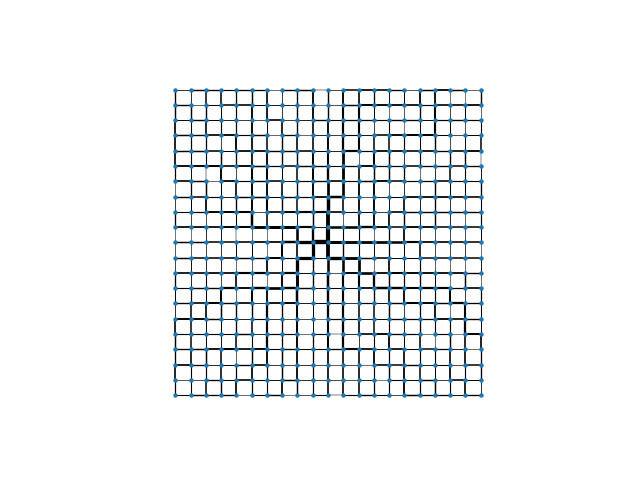
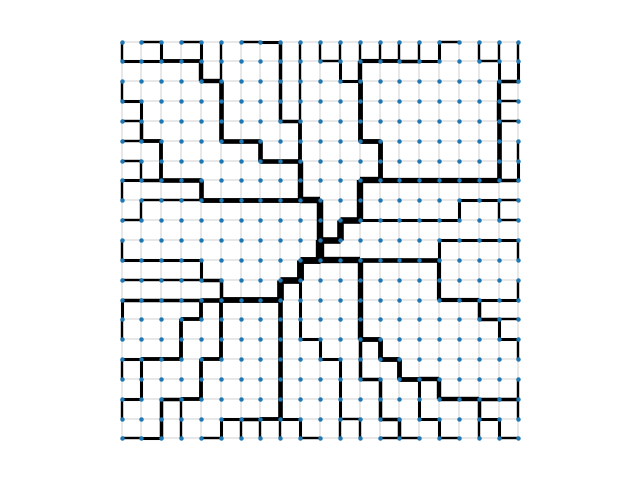
more images

diff --git a/Angiogenesis.py b/Angiogenesis.py
@@ -43,6 +43,32 @@ def generate_grid_graph(dim_A, dim_B, periodic=False, hexagonal=False, triangula
         graph = nx.triangular_lattice_graph(dim_A, dim_B, periodic=periodic)
     else:
         graph = nx.grid_graph(dim=(dim_A, dim_B))
+
+    # deleting the boundary ring of edges
+    """
+    last_index = dim_A - 1
+    iterator = 0
+    graph.remove_edge((0, 0), (1, 0))
+    for node in graph.nodes:  # accessing nodes on the boundaries of the network
+        if node[0] == 0 and node[1] != last_index:
+            graph.remove_edge((node), (0, node[1]+1))
+
+        elif node[0] == last_index and node[1] != last_index:
+            graph.remove_edge((node), (last_index, node[1]+1))
+
+        elif node[1] == 0 and node[0] != last_index:
+            graph.remove_edge((node), (node[0]+1, 0))
+
+        elif node[1] == last_index and node[0] != last_index:
+            graph.remove_edge((node), (node[0]+1, last_index))
+        iterator += 1
+
+    for node in dict(graph.nodes).copy():
+        neighbors = set(nx.neighbors(graph, node))
+        if len(neighbors) == 0:
+            graph.remove_node(node)
+    """
+
     inc_mtx = nx.incidence_matrix(graph)
     inc_mtx_dense = scipy.sparse.csr_matrix.todense(inc_mtx)
     inc_mtx_dense_int = inc_mtx_dense.astype(int)
@@ -83,9 +109,10 @@ def generate_physical_values(graph, source_value, incidence_matrix, corridor_mod
     #print(np.allclose(incidence_T_inv @ incidence_T @ incidence_T_inv, incidence_T_inv))
     #print(np.allclose(incidence_T @ incidence_T_inv @ incidence_T, incidence_T))
 
-    eps = 0.9
-    conductivity_list = np.ones(edges_dim) + np.random.default_rng().uniform(-eps, eps, edges_dim)  # ones + stochastic noise
-    length_list = np.ones(edges_dim) # + np.random.default_rng().uniform(-eps, eps, edges_dim)        # vector from edges space
+    eps = 0.8
+    radii_list = np.ones(edges_dim) + np.random.default_rng().uniform(-eps, eps, edges_dim)  # ones + stochastic noise
+    conductivity_list = 0.2*np.float_power(radii_list, 4)
+    length_list = 0.8*np.ones(edges_dim) # + np.random.default_rng().uniform(-eps, eps, edges_dim)        # vector from edges space
 
 
     # source in one node on the left and sink in one node on the right -- resulting in a corridor between them
@@ -132,6 +159,7 @@ def generate_physical_values(graph, source_value, incidence_matrix, corridor_mod
         source_list = np.zeros(dimension)                            # vector from nodes space
         source_list[int((dimension-1)/2)] = source_value             # source in the center
         number_of_boundary_nodes = 4*np.sqrt(dimension)-4
+        #number_of_boundary_nodes = 4*np.sqrt(dimension)-4-4          # without edges on outermost ring
         last_index = int(np.sqrt(dimension)-1)
         iterator = 0
         for node in graph.nodes:        # accessing nodes on the boundaries of the network
@@ -177,6 +205,7 @@ def generate_physical_values(graph, source_value, incidence_matrix, corridor_mod
     # x = delta^T * K/L *delta
     x = incidence_matrix  @ np.diag(1/length_list) @ np.diag(conductivity_list) @ incidence_T
     x_dagger = np.linalg.pinv(x)  # Penrose pseudo-inverse
+    flow_list = source_list @ x_dagger @ incidence_matrix @ np.diag(conductivity_list) @ np.diag(1 / length_list)
 
     return incidence_T_inv, x, x_dagger, incidence_inv, incidence_T, source_list, pressure_list, length_list, conductivity_list, flow_list, pressure_diff_list
 
@@ -294,8 +323,6 @@ def run_simulation(source_value, m, pos, nodes_data, edges_data, x, x_dagger, in
     # np.exp(r*t*delta/2)
     t = 0
 
-
-
     # two control parameters
     rho = b/(r*gamma*delta)   # the ratio between the time scales for adaptation and growth
     print("RHO: ", rho)
@@ -303,7 +330,6 @@ def run_simulation(source_value, m, pos, nodes_data, edges_data, x, x_dagger, in
     source_hat = source_value
     kappa = (c/a)*np.float_power((flow_hat/source_hat), 2*gamma)  # a/c is the ratio between background growth rate and adaptation strength and the hatted quantities are typical scales for flow and source strength.
     print("KAPPA: ", kappa)
-
 
     # implementing scaling factors
     if is_scaled:
@@ -319,13 +345,17 @@ def run_simulation(source_value, m, pos, nodes_data, edges_data, x, x_dagger, in
     energy_functional(conductivity_list, length_list, flow_list, gamma, show_result=True)
     number_of_removed_edges = 0
     number_of_removed_nodes = 0
+    print("Sum of conductivity: ", np.sum(conductivity_list))
 
-    lagrange_multiplier = 0.000001
+    lagrange_multiplier = 0.01
     flow_from_lagrange_optimisation = np.sqrt(lagrange_multiplier)*np.sqrt(1/gamma +1)*np.float_power(conductivity_list, 1/(2*gamma))
     for n in range(1, N+1):
         t += dt
-        if n!= 0 and n!= N and n == N/4 or n == N/2 or n == (3*N)/4:
+
+        if n!= 0 and n!= N and n == N/16 or n == (2*N)/16 or n == (3*N)/16 or n == N/4 or n == N/2 or n == (3*N)/4:
             draw_graph(graph, f"graph_at_{n/N}", pos, conductivity_list, m)
+            energy_functional(conductivity_list, length_list, flow_list, gamma, show_result=True)
+            print("Sum of conductivity: ", np.sum(conductivity_list))
 
         # pruning implementation
         if with_pruning:
@@ -349,7 +379,6 @@ def run_simulation(source_value, m, pos, nodes_data, edges_data, x, x_dagger, in
                     #pos = dict((m, m) for m in graph.nodes())
                     number_of_removed_nodes += 1
 
-
         # dK/dt = a*(q / q_hat)^(2*gamma) - b * K + c
         dK = dt * (np.float_power(a * (np.abs(flow_list) / flow_hat), (2 * gamma)) - b * conductivity_list + c * np.ones(len(flow_list)))
         #dK = dt * (np.float_power(a * (np.abs(flow_from_lagrange_optimisation) / flow_hat), (2 * gamma)) - b * conductivity_list + c * np.ones(len(flow_list)))
@@ -369,7 +398,6 @@ def run_simulation(source_value, m, pos, nodes_data, edges_data, x, x_dagger, in
 
         #dEdF_lam_dgdF = np.sum(flow_list) / np.sum(conductivity_list)    # checking first eq from lagrange optimisation
         #print(dEdF_lam_dgdF)
-
 
     energy_functional(conductivity_list, length_list, flow_list, gamma, show_result=True)
     print('simulation time: ', round(t*b, 3), "1/(b')  =  ", round(t, 3), "seconds")
@@ -397,7 +425,10 @@ def draw_graph(graph, name, pos, conductivity_list, n):
 
     plt.axis('off')
     plt.axis('scaled')
-    plt.savefig("%s.png" % name)
+    plt.subplots_adjust(top=1, bottom=0, right=1, left=0,
+                        hspace=0, wspace=0)
+    plt.margins(0, 0)
+    plt.savefig("%s.png" % name, bbox_inches=0)
     plt.clf()
     #plt.show()
     # nodes colour - heatmap of pressure

diff --git a/Simulation.py b/Simulation.py
@@ -17,9 +17,10 @@ number_of_nodes = m*m
 incidence_matrix, graph, nodes_data, edges_data = an.generate_grid_graph(m, m, hexagonal=hexagonal, triangular=triangular)
 #graph.remove
 
-source_value = 10
+source_value = m - 1
 incidence_T_inv, x, x_dagger, incidence_inv, incidence_T, source_list, pressure_list, length_list, conductivity_list, flow_list, pressure_diff_list = \
-    an.generate_physical_values(graph, source_value, incidence_matrix, corridor_model=0, two_capacitor_plates_model=0, square_concentric_model=0, veins_square_concentric_model=1, triangular=0)
+    an.generate_physical_values(graph, source_value, incidence_matrix, corridor_model=0, two_capacitor_plates_model=0,
+                                square_concentric_model=1, veins_square_concentric_model=0, triangular=0)
 
 arguments = {'pressure_list': pressure_list, 'length_list': length_list, 'conductivity_list': conductivity_list,
              'flow_list': flow_list, 'pressure_diff_list': pressure_diff_list, 'incidence_matrix': incidence_matrix,
@@ -44,7 +45,7 @@ print(edges_data)
 print(nodes_data)
 
 # dK/dt = a*(q / q_hat)^(2*gamma) - b * K + c
-parameters_set = {'a': 2.9, 'b': 1.3, 'gamma': 2/3, 'delta': 1.7, 'nu': 1.1, 'flow_hat': 1.1, 'c': 0.001, 'r': 1.7, 'dt': 0.001, 'N': 4000}
+parameters_set = {'a': 2.9, 'b': 3.3, 'gamma': 2/3, 'delta': 2.01, 'nu': 1.1, 'flow_hat': 0.3, 'c': 0.0001, 'r': 1.7, 'dt': 0.1, 'N': 200}
 
 graph, conductivity_list = an.run_simulation(source_value, m, pos, nodes_data, edges_data, **arguments, **parameters_set, is_scaled=True, with_pruning=False)
 print(edges_data)
